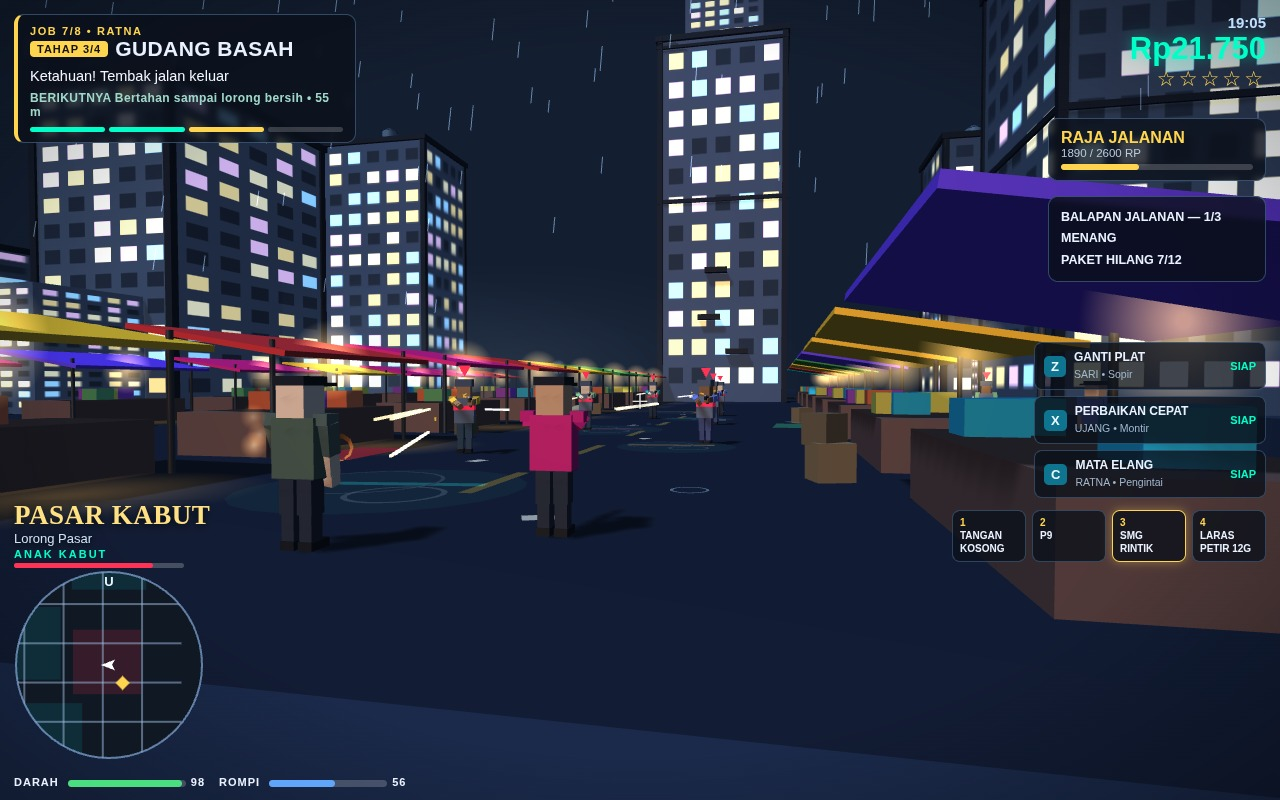
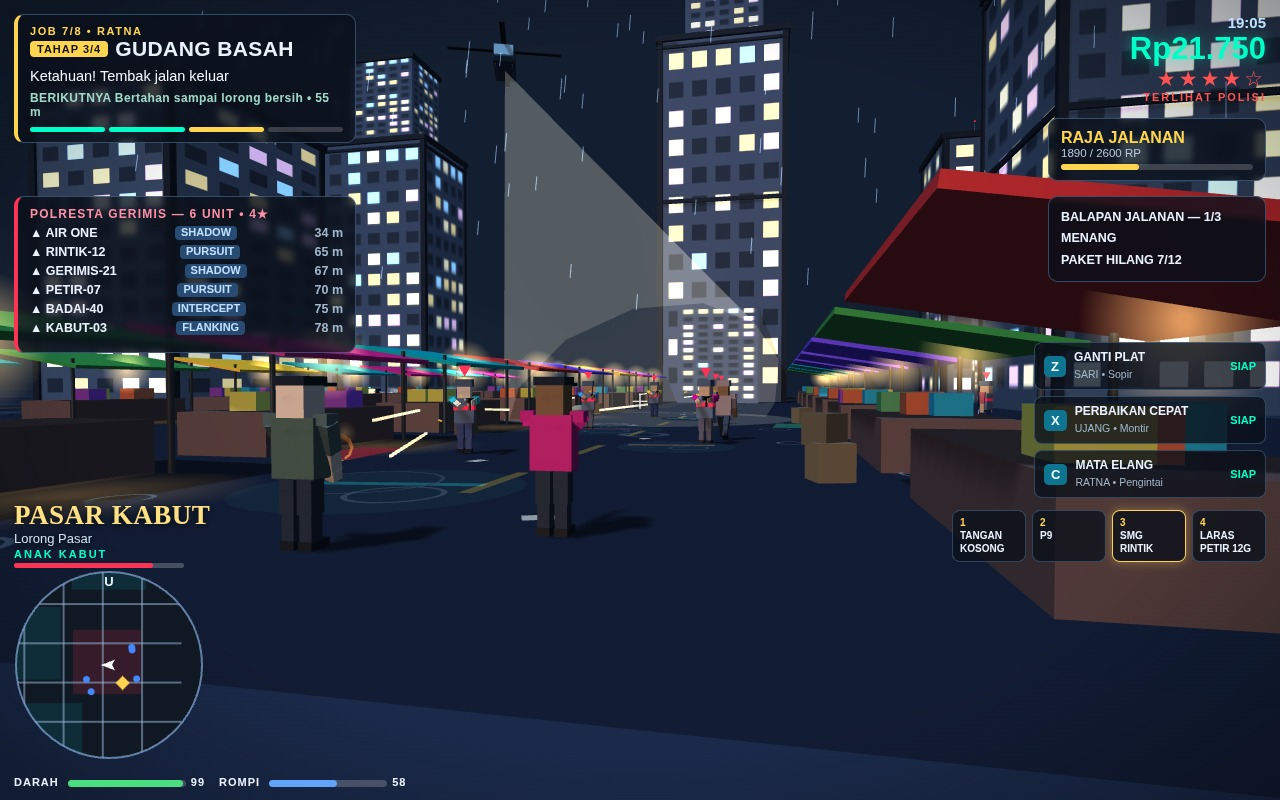
rev11: duel frame gets wanted-4 heat — setWanted(4) at capture (4 filled stars + live POLRESTA dispatch panel), staged AIR ONE heli (game's own makeHeli) behind Pasar Kabut with its searchlight beam on the aisle; real orbiting heli hidden in staging so exactly one aircraft reads

diff --git a/game/src/shots.js b/game/src/shots.js
@@ -7,7 +7,7 @@
 
 const T = window.THREE;
 import { pick } from './config.js';
-import { giveGun, gunMuzzleWorld, animatePed } from './actors.js';
+import { giveGun, gunMuzzleWorld, animatePed, makeHeli } from './actors.js';
 
 // The showcase save every in-world case shares: a Damar who has clearly
 // been busy — money in the bank, five jobs closed, most parcels found,
@@ -560,6 +560,48 @@ export function installStaging(api) {
         fx.muzzleStar(from.clone(), 1.0);
         fx.fireStreak(from, dir, from.distanceTo(chest), 125, () => fx.impactBurst(chest, 5));
       };
+      // REV11 — AIR ONE over the market (owner 21:24: the duel needs
+      // a police helicopter in the sky with its spotlight on the
+      // fight). The game's real AIR ONE orbits the player at 16 m —
+      // from this low camera its body never enters the frame, only
+      // its vertical cone would. So: one staged heli from the game's
+      // own makeHeli asset, high behind the market's north-east
+      // corner, with its beam drawn as a separate cone aimed at the
+      // aisle among the far gunmen + a light pool where it lands.
+      const stagedHeli = makeHeli();
+      stagedHeli.userData.stagedHeli = true;
+      stagedHeli.position.set(264, 35, 30);
+      stagedHeli.rotation.y = -Math.PI / 2 + 0.35; // nose west, quartered toward the duel
+      // Its own child cone hangs vertical; hide it — the aimed beam
+      // below replaces it.
+      stagedHeli.traverse(o => { if (o.isMesh && o.geometry && o.geometry.type === 'ConeGeometry') o.visible = false; });
+      scene.add(stagedHeli);
+      const poolAt = new T.Vector3(233, 0, 51);
+      const bellyAt = new T.Vector3(264, 34.2, 30);
+      const beamLen = bellyAt.distanceTo(poolAt);
+      const beam = new T.Mesh(
+        new T.ConeGeometry(7.5, beamLen, 14, 1, true),
+        new T.MeshBasicMaterial({ color: 0xfff3c4, transparent: true, opacity: 0.13, blending: T.AdditiveBlending, depthWrite: false, side: T.DoubleSide })
+      );
+      beam.position.copy(bellyAt).add(poolAt).multiplyScalar(0.5);
+      beam.quaternion.setFromUnitVectors(new T.Vector3(0, 1, 0), bellyAt.clone().sub(poolAt).normalize());
+      scene.add(beam);
+      const poolDisc = new T.Mesh(
+        new T.CircleGeometry(7.5, 24),
+        new T.MeshBasicMaterial({ color: 0xfff0bb, transparent: true, opacity: 0.16, blending: T.AdditiveBlending, depthWrite: false })
+      );
+      poolDisc.rotation.x = -Math.PI / 2;
+      poolDisc.position.set(poolAt.x, 0.04, poolAt.z);
+      scene.add(poolDisc);
+      // Hide the real orbiting AIR ONE when the capture script raises
+      // wanted to 4: exactly one aircraft reads in the frame. The
+      // wanted stars and the POLRESTA dispatch roster (AIR ONE line
+      // included) stay the real system's own output.
+      setInterval(() => {
+        for (const c of scene.children) {
+          if (c.userData && c.userData.rotor && !c.userData.stagedHeli) c.visible = false;
+        }
+      }, 120);
       // Over Damar's right shoulder from the aisle's south side, low:
       // looking east, screen-right runs along +z, so the camera sits at
       // the higher z to hold the hero large and whole at the LEFT while
